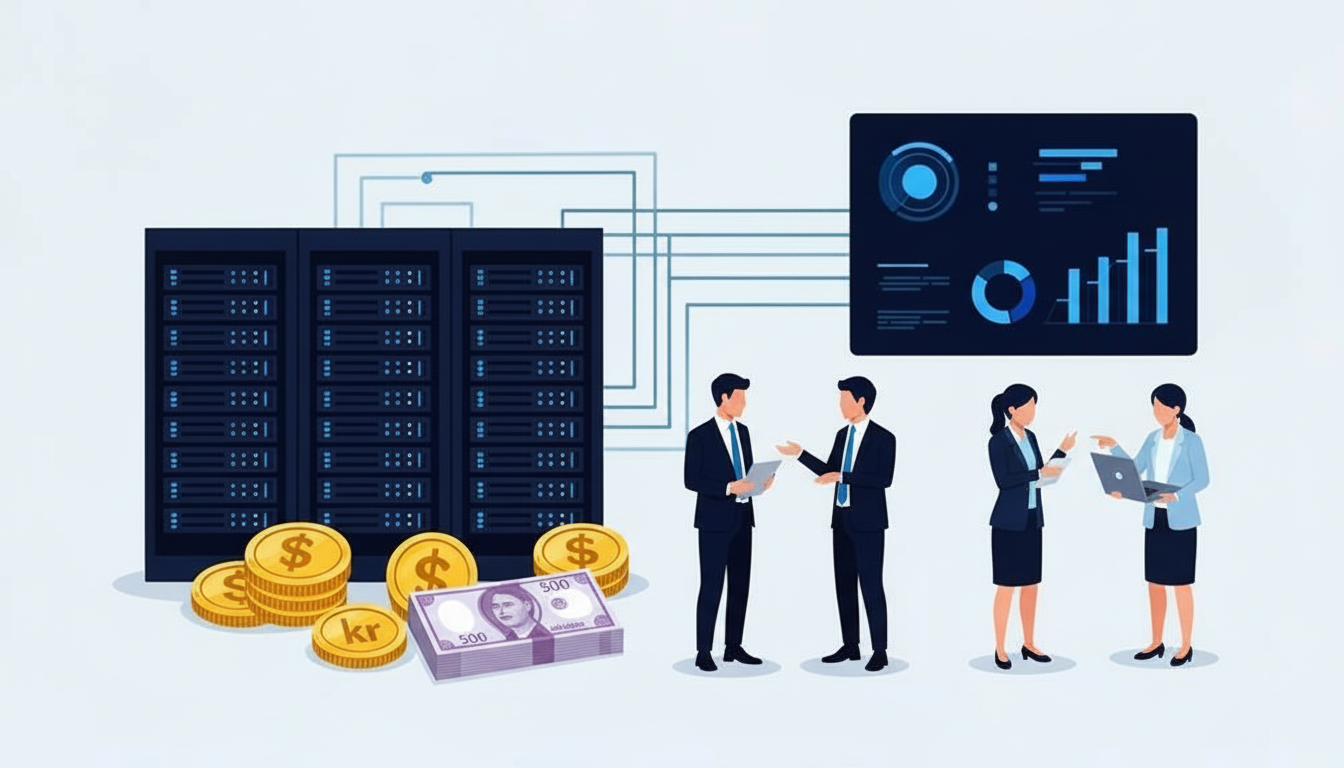
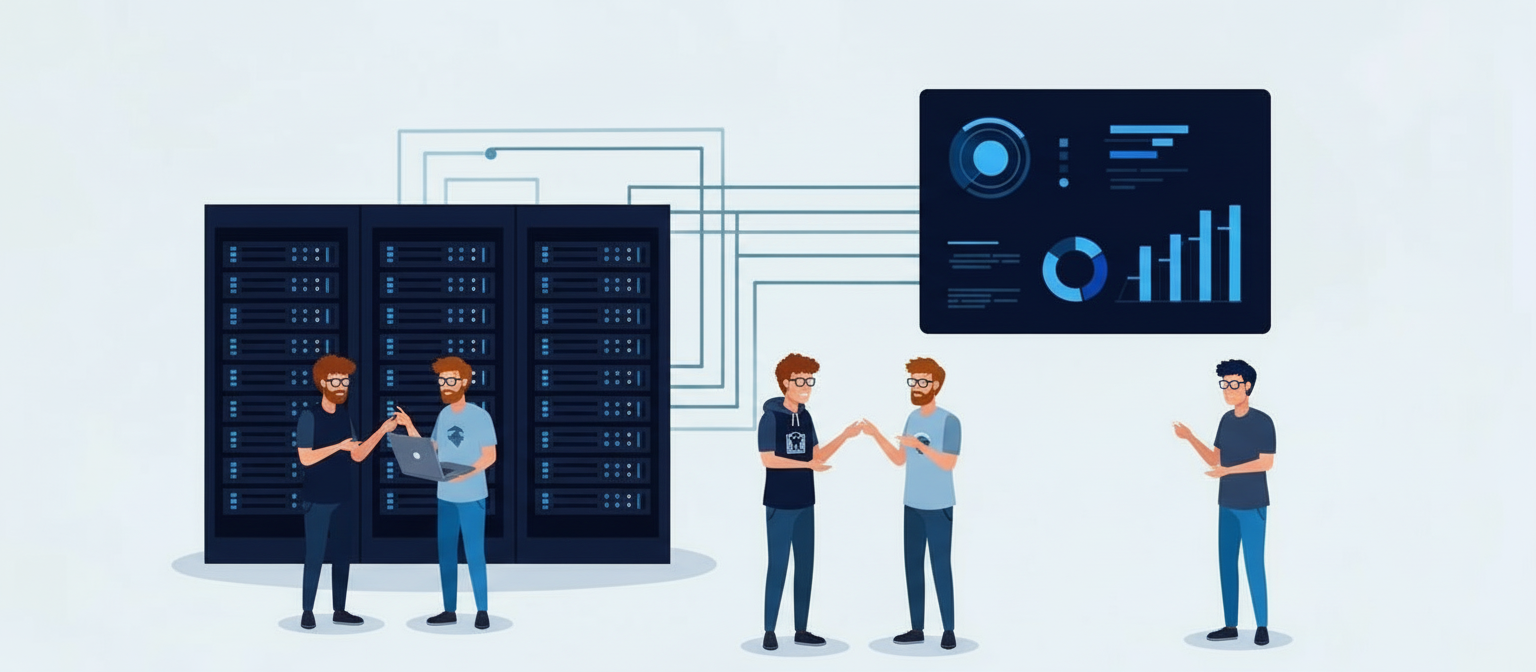
Changes

Changed region(s): [[0.0625, 0.125, 0.9062, 1.0]]

diff --git a/src/pages/HomePage.tsx b/src/pages/HomePage.tsx
@@ -215,11 +215,11 @@ export default function HomePage() {
         </div>
 
         {/* Illustration */}
-        <div className="rounded-2xl overflow-hidden shadow-lg">
+        <div className="rounded-2xl overflow-hidden shadow-lg max-h-48 sm:max-h-56">
           <img 
             src={homepageIllustration} 
             alt="IT-infrastruktur, nätverk, kostnadshantering" 
-            className="w-full h-auto object-cover"
+            className="w-full h-full object-cover object-center"
           />
         </div>
 
